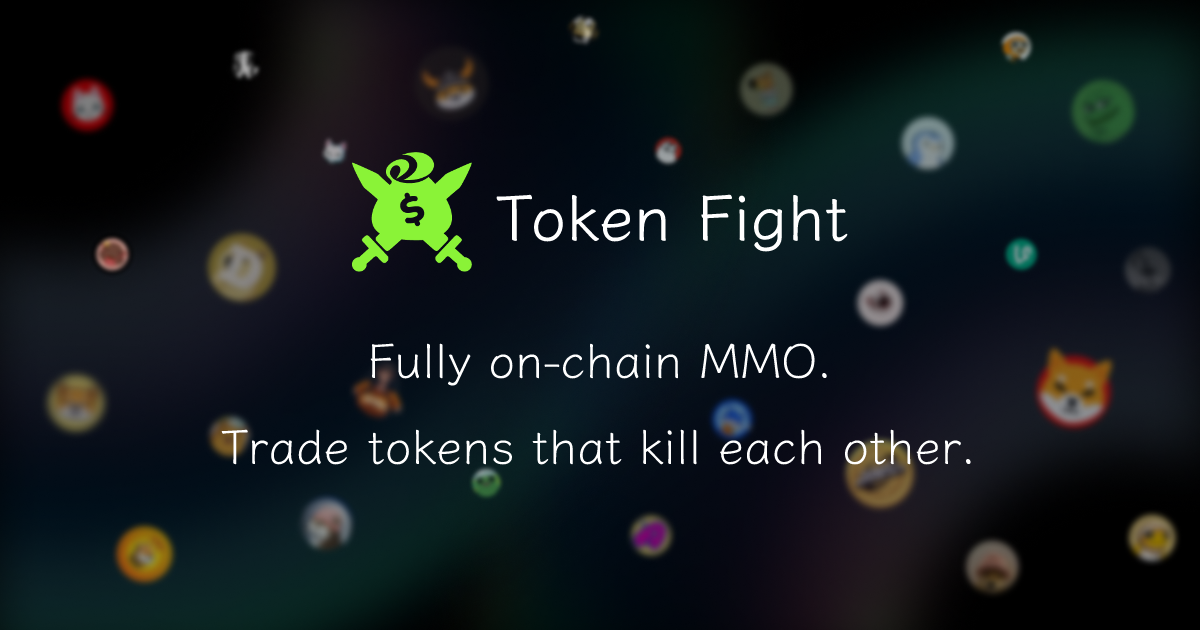
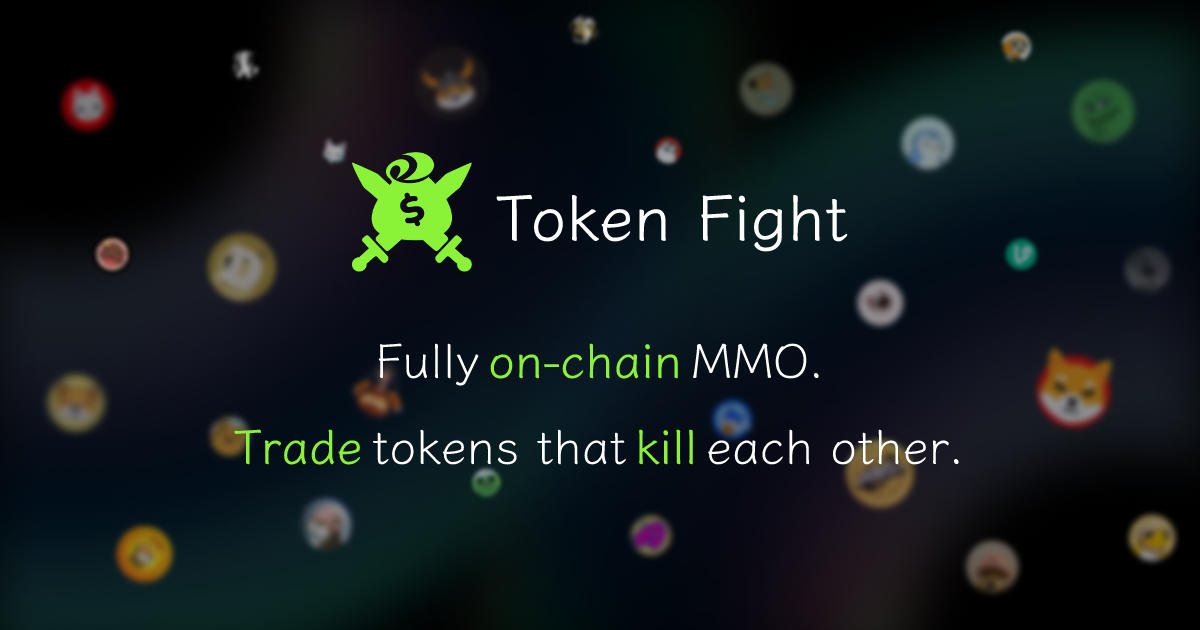
improve static gen style

Changed region(s): [[0.185, 0.6635, 0.8017, 0.754], [0.3083, 0.5429, 0.6783, 0.6333]]

diff --git a/src/app/api/og/static/generate.tsx b/src/app/api/og/static/generate.tsx
@@ -102,11 +102,16 @@ export async function GET() {
                 gap: '16px',
               }}
             >
-              <div style={{ color: 'white', fontSize: '48px' }}>
-                Fully on-chain MMO.
+              <div style={{ color: 'white', fontSize: '48px', display: 'flex', flexDirection: 'row', gap: '8px' }}>
+                <span>Fully</span>
+                <span style={{ color: '#8AF337', fontWeight: 'bold' }}>on-chain</span>
+                <span>MMO.</span>
               </div>
-              <div style={{ color: 'white', fontSize: '48px' }}>
-                Trade tokens that kill each other.
+              <div style={{ color: 'white', fontSize: '48px', display: 'flex', flexDirection: 'row', gap: '8px' }}>
+                <span style={{ color: '#8AF337', fontWeight: 'bold' }}>Trade</span>
+                <span>tokens that</span>
+                <span style={{ color: '#8AF337', fontWeight: 'bold' }}>kill</span>
+                <span>each other.</span>
               </div>
             </div>
           </div>
